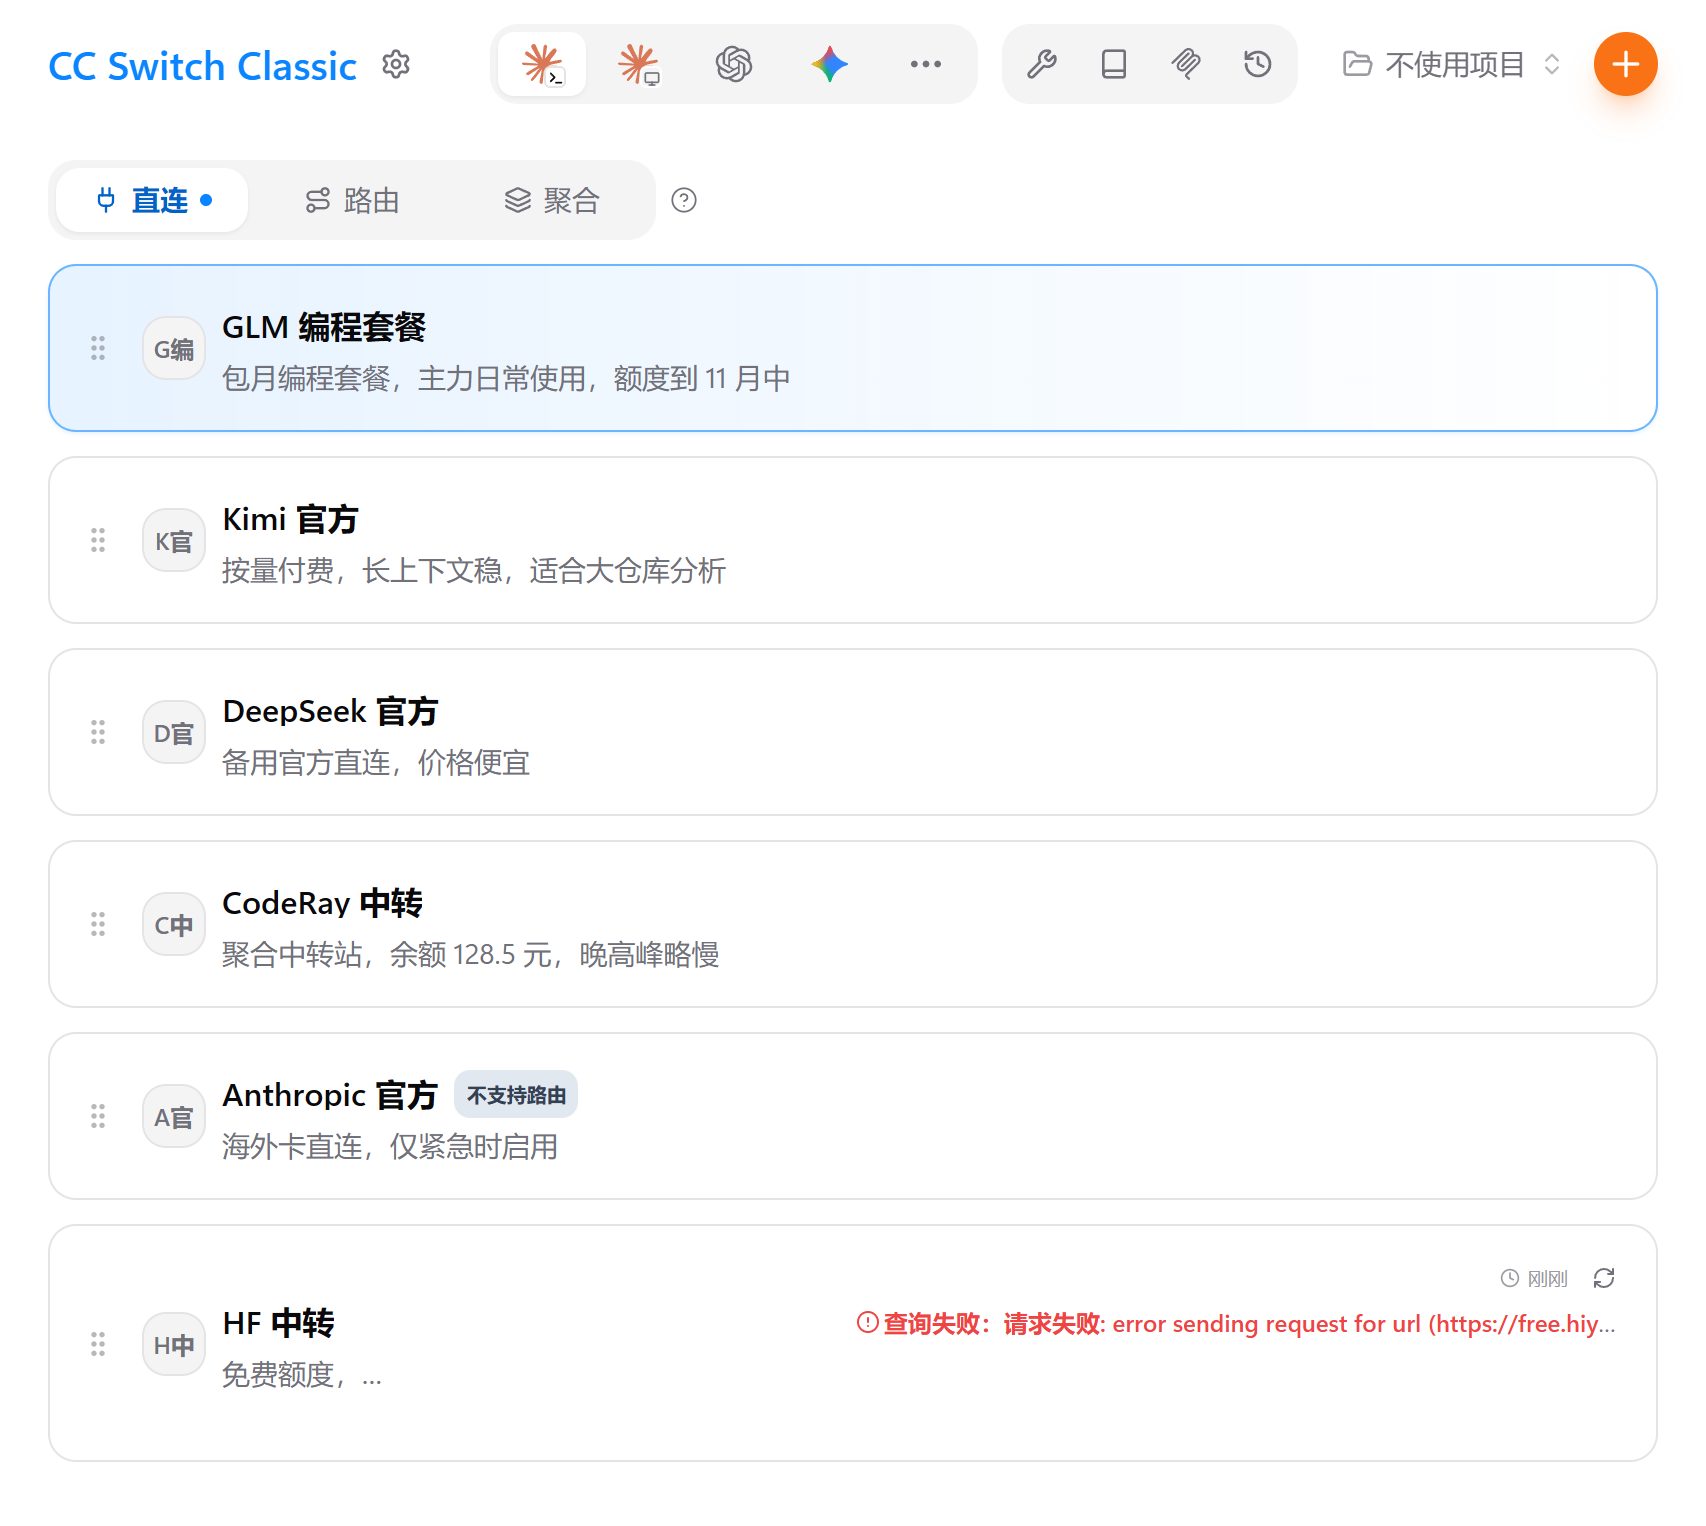
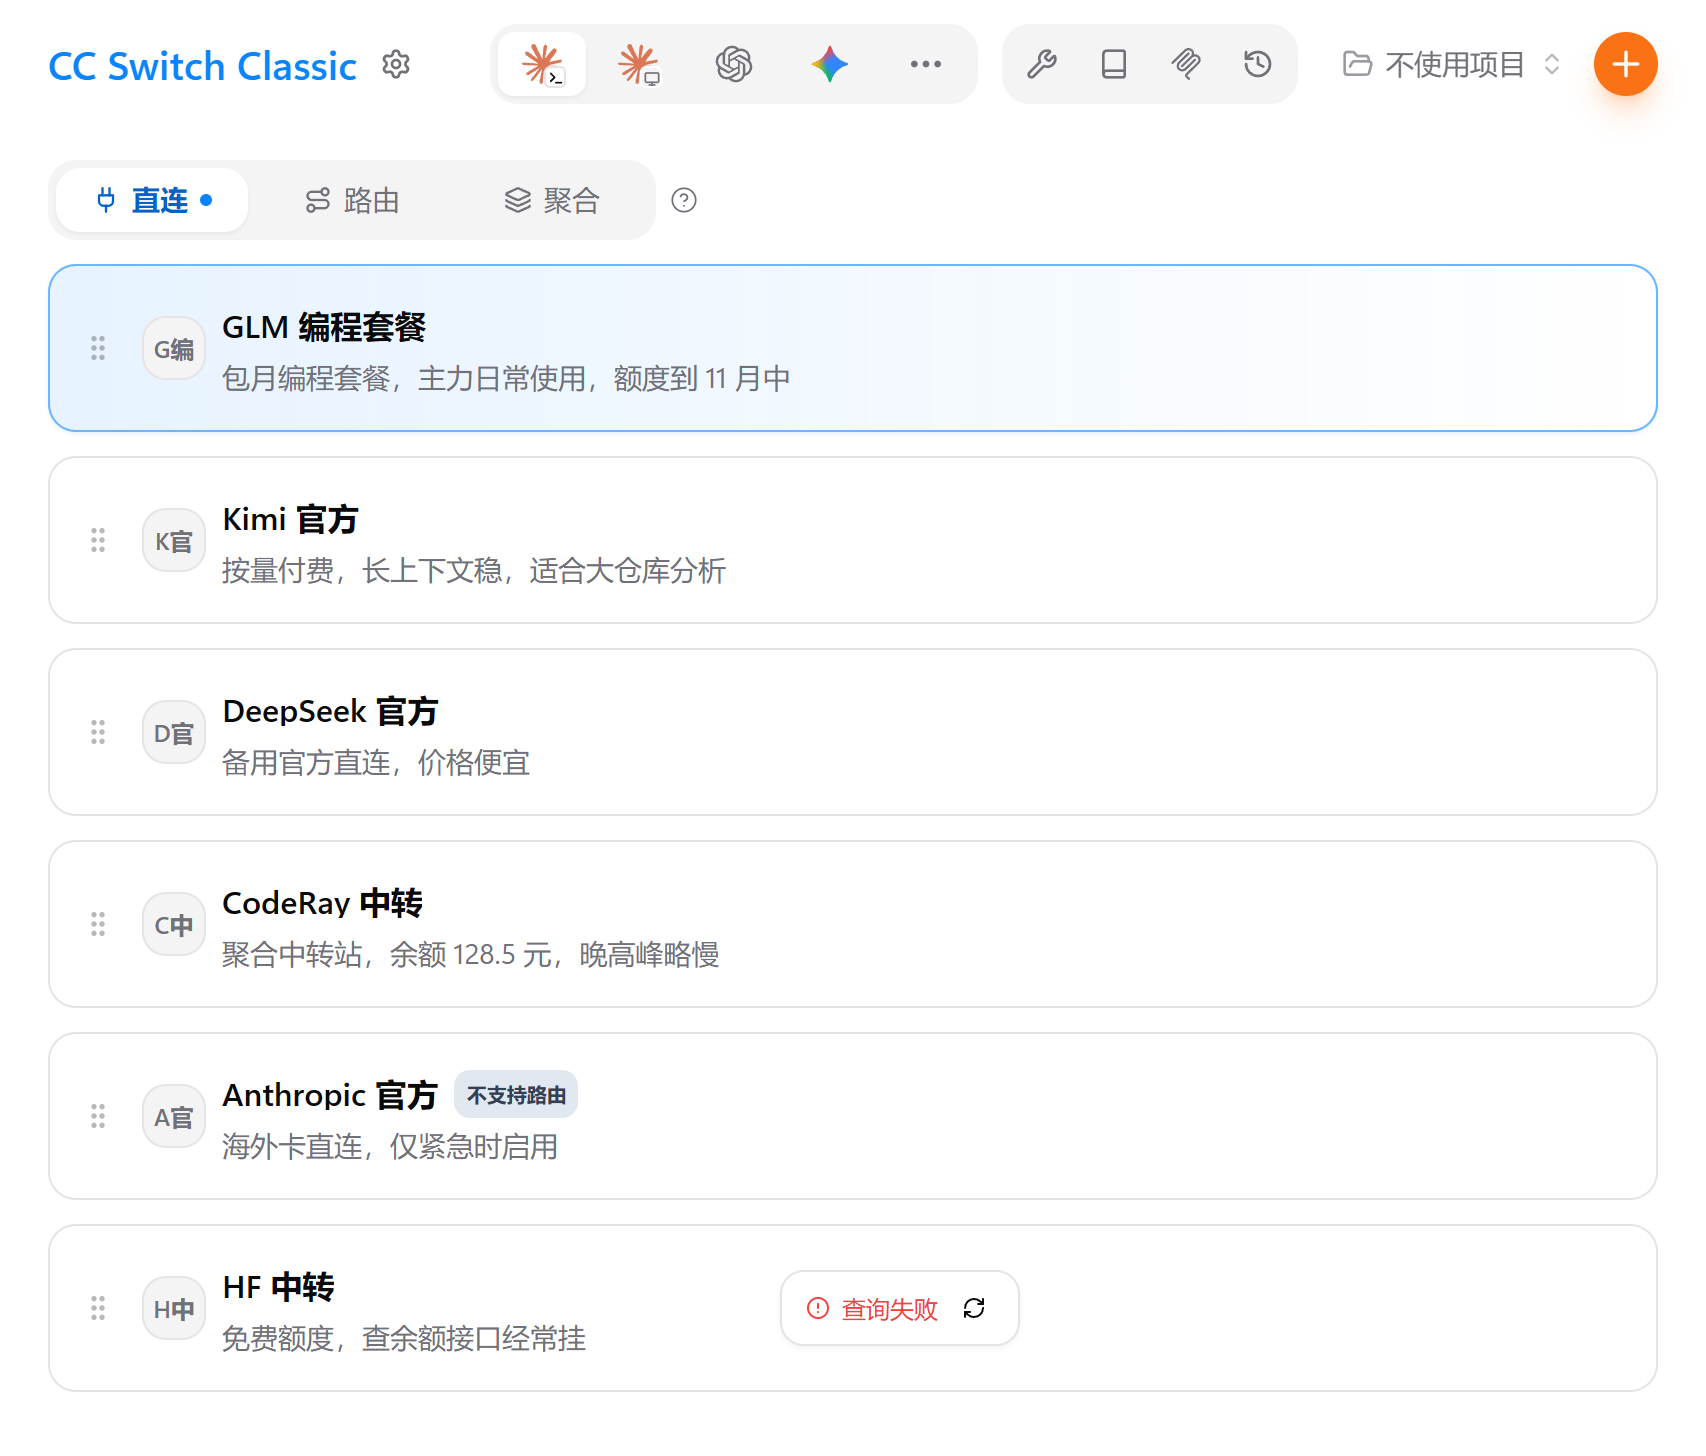
修复(用量): 查询失败态照抄第三版胶囊形态

diff --git a/src/components/UsageFooter.tsx b/src/components/UsageFooter.tsx
@@ -1,6 +1,7 @@
 import React from "react";
 import type { TFunction } from "i18next";
 import { useTranslation } from "react-i18next";
+import { AlertCircle, RefreshCw } from "lucide-react";
 import { type AppId } from "@/lib/api";
 import { useUsageQuery } from "@/lib/query/queries";
 import { UsageData, Provider } from "@/types";
@@ -15,7 +16,6 @@ import { useQuotaDisplay } from "@/components/quota/useQuotaDisplay";
 import {
   balanceLine,
   expiredLine,
-  failedLines,
   tierLine,
   type QuotaLine,
 } from "@/components/quota/quotaRules";
@@ -139,32 +139,52 @@ const UsageFooter: React.FC<UsageFooterProps> = ({
   if (!usage || !usage.success) {
     const reason = usage?.error || t("usage.queryFailed");
     if (inline) {
+      // 第三版形态：卡片上是「查询失败」胶囊，不塞报错文本（长报错会把卡片
+      // 布局撑破）；完整原因放悬停提示，展开视图里完整显示
       return (
-        <QuotaLines
-          lines={failedLines(t, reason)}
-          queriedAt={lastQueriedAt}
-          loading={loading}
-          onRefresh={refresh}
-        />
+        <div
+          className="inline-flex items-center gap-2 text-xs rounded-lg border border-border bg-card px-3 py-2 shadow-sm"
+          title={reason}
+        >
+          <div className="flex items-center gap-1.5 text-red-500 dark:text-red-400">
+            <AlertCircle size={12} />
+            <span>{t("usage.queryFailed")}</span>
+          </div>
+          <button
+            onClick={(e) => {
+              e.stopPropagation();
+              refresh();
+            }}
+            disabled={loading}
+            className="flex-shrink-0 rounded p-1 transition-colors hover:bg-muted disabled:opacity-50"
+            title={t("usage.refreshUsage")}
+          >
+            <RefreshCw size={12} className={loading ? "animate-spin" : ""} />
+          </button>
+        </div>
       );
     }
+    // 展开视图（第三版形态）：边框卡片里完整显示错误原因
     return (
-      <QuotaBars
-        className="mt-3"
-        title={t("usage.planUsage")}
-        rows={[]}
-        queriedAt={lastQueriedAt}
-        loading={loading}
-        onRefresh={refresh}
-        footer={
-          <p className="text-caption">
-            <span className="font-medium text-danger-text">
-              {t("quota.failed")}
-            </span>{" "}
-            <span className="text-fg-3">{reason}</span>
-          </p>
-        }
-      />
+      <div className="mt-3 rounded-xl border border-border bg-card px-4 py-3 shadow-sm">
+        <div className="flex items-center justify-between gap-2 text-xs">
+          <div className="flex min-w-0 items-center gap-2 text-red-500 dark:text-red-400">
+            <AlertCircle size={14} className="shrink-0" />
+            <span className="break-all">{reason}</span>
+          </div>
+          <button
+            onClick={(e) => {
+              e.stopPropagation();
+              refresh();
+            }}
+            disabled={loading}
+            className="flex-shrink-0 rounded p-1 transition-colors hover:bg-muted disabled:opacity-50"
+            title={t("usage.refreshUsage")}
+          >
+            <RefreshCw size={12} className={loading ? "animate-spin" : ""} />
+          </button>
+        </div>
+      </div>
     );
   }
 
